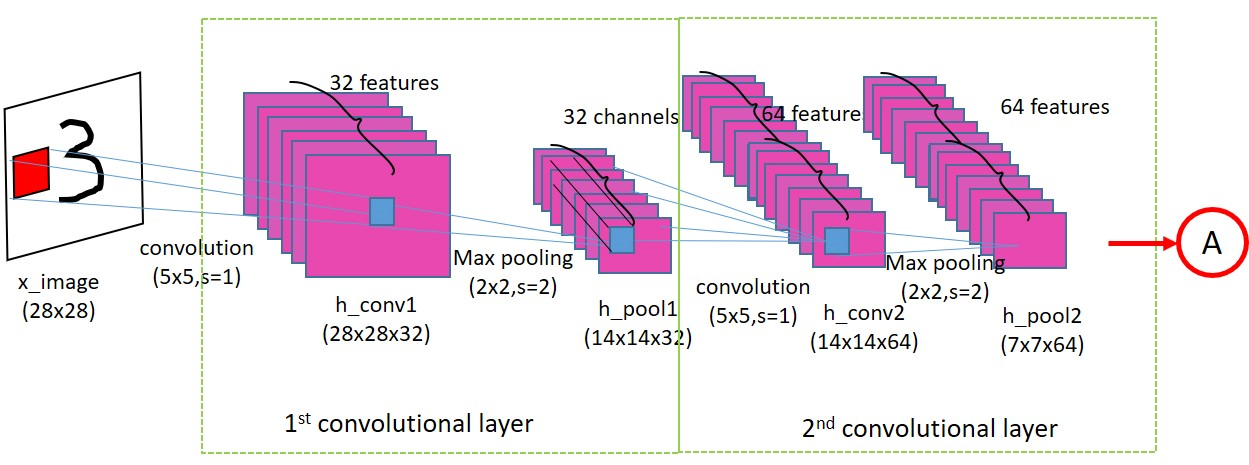
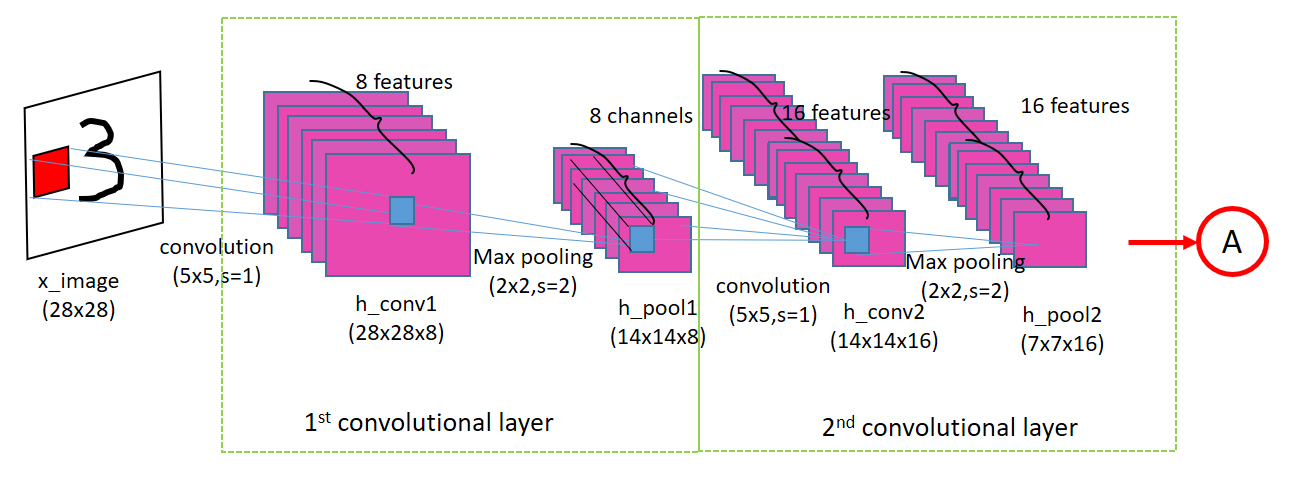
Corretto Capitoli 4 e 6 e aggiornate due immagini

diff --git a/report/Chapters/Chapter04.tex b/report/Chapters/Chapter04.tex
@@ -2,15 +2,17 @@
 \chapter{A basic model for handwritten digits recognition}\label{ch:basic_tf_model}
 %*****************************************
 
-In this chapter we will discover a basic TensorFlow model developed in order to classify images from the \acs{MNIST} dataset. Our scope is to illustrate the structure of the \acs{CNN} and how that basic model can be readjust as needed, gathering data about accuracy during training process and test accuracy on unknown images from the dataset.
+In this chapter we will discover a basic TensorFlow model developed in order to classify images from the \acs{MNIST} dataset. Our scope is to illustrate the structure of the \acs{CNN} and how that basic model can be readjusted as needed, gathering data about accuracy during the training process and test accuracy on unknown images from the dataset.
 
-After an introduction to the \acs{MNIST} dataset, we will study the structure of the Convolutional Neural Network used in our experiments in depth, trying to understand which parameters are relevant for the improvement of the results, and how the structure can influence more than any other factor the accuracy of the network during training.
+The full code of the project is available at the following link: \href{https://github.com/Stex93/MNIST_TF_Net}{https://github.com/Stex93/MNIST_TF_Net}.
 
-We identify two levels where we can act to modify the neural network. A architectural one, where we add, move and remove convolutional or pooling levels, and a parameter level, where we modify number of features, patch dimension, and so on. The first one is more important while designing the structure of the network, the second one is a more precise intervention useful for tuning.
+After an introduction to the \acs{MNIST} dataset, we will illustrate in depth the structure of the Convolutional Neural Network used in our experiments, trying to understand which parameters are relevant for the improvement of the results, and how the structure can influence more than any other factor the accuracy of the network during the training.
+
+It is possible to identify two levels where we can act to modify the neural network. An architectural one, where we add, move and remove convolutional or pooling layers, and a parameter level, where we modify number of detected features, filters dimensions, and so on. The first one is more important while designing the structure of the network, the second one is a more precise intervention useful for tuning.
 
 \section{A focus on the MNIST dataset}
 
-Before beginning, let us focus on \acs{MNIST} dataset, which is widely used in machine learning for training and testing. The acronym \acs{MNIST} stands for Mixed National Institute of Standards and Technology because this database, containing a large number of handwritten digits, is a re-mixing of a previous dataset (NIST dataset) and collects $60000$ images for training and $10000$ for testing. The images were taken half from the American Census Bureau employees and half from American high school students and includes labels telling which digit every image is.
+Before beginning, let us focus on the \acs{MNIST} dataset, which is widely used in machine learning for training and testing purposes. The acronym \acs{MNIST} stands for Mixed National Institute of Standards and Technology because this dataset, containing a large number of handwritten digits, is a re-mixing of a previous dataset (NIST dataset) and collects $60000$ images for training and $10000$ for testing. The images were taken half from the American Census Bureau employees and half from American high school students and includes labels telling which digit every image is.
 
 \begin{figure}
 	\centering
@@ -19,11 +21,11 @@ Before beginning, let us focus on \acs{MNIST} dataset, which is widely used in m
 	\label{fig:MNIST_images}
 \end{figure}
 
-Figure \ref{fig:MNIST_images} shows four examples of handwritten digit images from \acs{MNIST} dataset, in order we have 5, 0, 4, 1.
+Figure \ref{fig:MNIST_images} shows four examples of handwritten digit images from the \acs{MNIST} dataset, from left to right we have 5, 0, 4, 1.
 
 \subsection{Usage in the machine learning}
 
-As mentioned earlier, the \acs{MNIST} dataset is widely used for training and testing neural networks, because it is a reference dataset in machine learning. During the years, lots of models in neural networks research were trained and tested on this dataset. Sometimes exciting results led to stale that neural networks achieved "near-human performance", but the first attempts obtained quite poor results: a linear classifier had a error rate from $12.0 \%$ to $7.6 \%$, which is really not satisfying for such a simple task.
+As mentioned earlier, the \acs{MNIST} dataset is widely used for training and testing neural networks, because it is a reference dataset in machine learning. During the years, lots of models in neural networks research were trained and tested on this dataset. Sometimes exciting results led to state that neural networks achieved "near-human performance", but the first attempts obtained quite poor results: a linear classifier had a error rate from $12.0 \%$ to $7.6 \%$, which is really not satisfying for such a simple task.
 
 Other solutions led to better results. Non-linear classifiers drastically reduced error rate to $3.3 \%$, but more appreciable results were obtained with 2-layers ($784-800-10$) neural networks, with an error rate of: $1.6 \%$, $0.7 \%$ with elastic distortion. Boosted stumps achieved an error rate of $0.87 \%$, support vector machines $0.56 \%$, K-nearest neighbors $0.52 \%$ and 6-layers deep neural network $0.35 \%$.
 
@@ -35,7 +37,7 @@ The digits have been size-normalized and centered in a fixed-size image of $28x2
 
 The original NIST dataset contained black and white, bilevel images. As a result of an anti-aliasing technique used in the normalization algorithms, images are now in greyscale. Digits were centered by computing the center of mass of the pixels and properly translating them.
 
-Images are not in a standard image format, the data is stored in a very simple format designed for storing vectors and multidimensional matrices. Clearly labels values are from 0 to 9, while pixel values are from 0 to 255, 0 stands for white and can be found in the background, 255 is black and means foreground; pixels are organized row-wise. It is important to underline that in TensorFlow values 0 to 255 are normalized in the [0, 1] range.
+Images are not in a standard image format, data are stored in a very simple format designed for storing vectors and multidimensional matrices. Clearly labels values are from 0 to 9, while pixel values are from 0 to 255, 0 stands for white and can be found in the background, 255 is black and means foreground; pixels are organized row-wise. It is important to underline that in TensorFlow values from 0 to 255 are normalized in the [0, 1] range.
 
 \begin{figure}
 	\centering
@@ -44,39 +46,39 @@ Images are not in a standard image format, the data is stored in a very simple f
 	\label{fig:image_to_matrix}
 \end{figure}
 
-Figure \ref{fig:image_to_matrix} shows an example of images storing format: each image can be translated into a numeric matrix, pixel by pixel, encoding pixel colors (white, black and grey levels) in the [0, 255] range.
+Figure \ref{fig:image_to_matrix} shows an example of image storing format: each image can be translated into a numeric matrix, pixel by pixel, encoding pixel colors (white, black and grey levels) with a number in the [0, 255] range.
 
 More detailed informations about data format are not useful to read and compute the files in the dataset, but can be found on the \href{http://yann.lecun.com/exdb/mnist/}{dataset website}.
 
 \section{Choosing the hyperparameters}
 
-Now, let's focus on the simple model developed in tensorflow, starting from the hyperparameters choice.
+Now, let's focus on the simple model developed in TensorFlow, starting from the hyperparameters choice.
 
 Tuning the hyperparameters of the network is very delicate, it is a precision intervention which hopefully allows to improve both training and performances, but can also reduce them in the worst case. We will consider the following parameters: number of features to identify in every convolutional layer, filter size, stride size, number of input and output channels and padding of images.
 
 \begin{description}
 	
-	\item[Number of features] This is one of the most important parameters to set, because here is specified how many features the network will try to identify. There is not a formula which allows us to find the perfect number of features based on the complexity of a task, but after several attempts with different values for this parameter we found a good solution for \acs{MNIST} images. It can be concluded that a simple task, e.g. classifying $28x28$ grey scale images of digits, requires a small amount of filters to be learn (and consequently features to be identified): 8 in first convolutional layer, 16 in the second one. When we will analyze the results of the experiments, in Chapter \ref{ch:data_analysis}, with different values for this parameters, we will find that very good performances can be obtained with 2 and 4 features, too. More difficult task with bigger and higher quality images, would probably require tens or hundreds features. An opposite problem is a too high value, the result is that some filters became the same or very similar, so it could cause an increase in the complexity of the model without any benefit.
+	\item[Number of features] This is one of the most important parameters to set, because here is specified how many features the network will try to extract from every image. There is not a formula which allows to find the perfect number of features based on the complexity of a task, but after several attempts with different values for this parameter we found a good solution for the \acs{MNIST} images. It can be concluded that a simple task, \eg classifying $28x28$ greyscale images of digits, requires a quite small amount of filters to be learnt (and consequently features to be identified): 8 in the first convolutional layer, 16 in the second one. When we will analyze the results of the experiments, in chapter \ref{ch:data_analysis}, with different values for this parameters, we will find that very good performances can be obtained with 2 and 4 features, too. More difficult tasks with bigger and higher quality images, would probably require dozens or hundreds of features. An opposite problem is a too high value, the result would be that some filters become the same or very similar, and this could cause an increase in the complexity of the model without any benefit.
 
-	\item[Patch size] The patch size allows us to adjust the size of the receptive field. Contrary to expectations, this parameter will not change from a convolutional and pooling layer to the next one, because while it is a fixed value, the image dimension is reduced, so the patch cover a greater area and allows the recognition of features, even more complex, in a bigger patch.  In our example with $28x28$ images a good patch size value is $5x5$. Obviously a bigger image would require an appropriately sized patch.
+	\item[Patch size] The patch size for the filters allows to adjust the size of the receptive field. Contrary to expectations, this parameter does not change from a convolutional and pooling layer to the next one. Actually, while this is a fixed value, the image dimension is reduced by pooling layers, so in deeper layers the patch covers a greater area and allows the recognition of features, even more complex, in a bigger part of the image.  In our example with $28x28$ images a good patch size is $5x5$. Obviously a bigger image would require an appropriately sized patch.
 	
-	\item[Stride size] According to the vanilla version proposed in the example, our stride value is 1. This value is combined with the padding in convolution and pooling in order to obtain an output of the same size of the input.
+	\item[Stride size] According to the vanilla version proposed in the \acs{TF}, our stride value is 1. This value is combined with the padding size in convolution and pooling in order to obtain an output of the same size of the input.
 	
-	\item[Input and output channels] These parameters can vary from a convolutional layer to another. In the first layer the input channel is linked to the colors of the input images, so in our example we have the value 1; the number of output channel depends on the number of features recognized in the layer. In deeper layers the input channel must correspond to the output channel of the previous layer, and the output channel to the features recognized in the layer.
+	\item[Input and output channels] These parameters can vary from a convolutional layer to another. In the first layer the input channel is linked to the colors of the input images, so in our example we have the value 1; the number of output channels depends on the number of features recognized in the layer. In deeper layers the input channel must correspond to the output channel of the previous layer, and the output channel to the features recognized in the layer.
 	
-	\item[Padding dimension and color] As described previously with the formula, we determined the zero padding dimension. It is very important because with the stride size value permit to keep stable dimensions of input and output layer after layer. It is important to notice that the color of the padding, i.e. white, corresponds to the color of the background of the \acs{MNIST} images. It is a fluke, but what would happen if the padding color changed to black?
+	\item[Padding dimension and color] As described previously with the formula, we determined the zero padding dimension. It is very important because with the stride size value permit to keep stable dimensions of input and output layer after layer. It is important to notice that the color of the padding, \ie white, corresponds to the color of the background of the \acs{MNIST} images. It is a fluke, but what would it happen if the padding color were changed to black (\ie 1)?
 
 \end{description}
 
 \section{The architectural level}
 
-We introduced in Chapter \ref{ch:conv_nets} the different types of layers useful to build a \acs{CNN}, now we can analyze how they are combined in our TensorFlow model. This architecture was not modified, so it is exactly the one suggested in the TensorFlow example.
+We introduced in chapter \ref{ch:conv_nets} the different types of layers useful to build a \acs{CNN}, now we can analyze how they are combined in our TensorFlow model. This architecture was not modified, so it is exactly the one suggested in the TensorFlow tutorial.
 
 After the \acs{MNIST} images are loaded, the TensorFlow session created and the variables initialized, we can start building the multilayer \acs{CNN}.
 
 \subsection{Weights initialization}
 
-First of all we need to define a matrix of weights, its dimensions depend on the parameter shape. At first weights are random values from a truncated normal distribution, the following lines of code shows their initialization.
+First of all we need to define a matrix of weights, its dimensions depend on the parameter shape. At first weights are random values from a truncated normal distribution, the following lines of code shows the function used for their initialization.
 
 \begin{lstlisting}
 def weight_variable(shape):
@@ -84,9 +86,9 @@ def weight_variable(shape):
   return tf.Variable(initial)
 \end{lstlisting}
 
-The parameter we passes to the function, shape, is a list containing the values of the different dimensions of the tensor.
+The parameter we passed to the function, shape, is a list containing the values of the different dimensions of the tensor.
 
-We report also the bias initialization method in the following lines of code.
+We report also the bias initialization function in the following lines of code.
 
 \begin{lstlisting}
 def bias_variable(shape):
@@ -96,9 +98,9 @@ def bias_variable(shape):
 
 \subsection{First convolutional layer}
 
-The following lines of code introduce the first block: a convolutional layer followed by a ReLU layer and a pooling layer. In the first two lines there are the weights and biases initializations; weights are random values from a truncated normal distribution, bias is a constant tensor. Then on the third line there are the convolution and the \acs{ReLU} operation, followed on the fourth line by the max pooling operation.
+The following lines of code introduce the first block: a convolutional layer followed by a \acs{ReLU} layer and a pooling layer. In the first two lines there are the weights and biases initializations; weights are random values from a truncated normal distribution, the bias is a constant vector. Then, on the third line there are the convolution and the \acs{ReLU} operation, followed on the fourth line by the max pooling operation.
 
-That kind of structure in the block we described is not the only solution, the different layers can be combined in different ways, e.g. we can add in this block a second convolutional layer instead of one before ReLU and max pooling.
+That kind of structure in the block we described is not the only solution, different layers can be combined in different ways, \eg we can add in this block an additional second convolutional layer before ReLU and max pooling.
 
 \begin{lstlisting}
 W_conv1 = weight_variable([5, 5, 1, features1])
@@ -107,20 +109,20 @@ h_conv1 = tf.nn.relu(conv2d(x_image, W_conv1) + b_conv1)
 h_pool1 = max_pool_2x2(h_conv1)
 \end{lstlisting}
 
-We can spend some words about the parameters of the function "weight\_variable": the two $5$ are the filter dimensions, while feature1 is the number of filters which corresponds to the number of feature the network will identify.
+We can spend some words about the parameters of the function \lstinline|weight\_variable|: the two $5$ are the filter dimensions, while \lstinline|feature1| is the number of filters which corresponds to the number of features the network will identify in this layer.
 
-Figure \ref{fig:conv_layer} will help the reader to properly visualize the structure of this layer, from the patches on the image which we can see in the figure, connected to the feature maps in convolutional layer, to the feature maps connected to the max pooling layer.
+Figure \ref{fig:conv_layer} could help the reader to properly visualize the structure of this layer, starting from the connections between the image input and the neurons of the convolutional layer, and going deeper.
 
 \begin{figure}
-	\caption{A detailed schema of a convolutional and pooling layer with detailed notations}
-	\label{fig:conv_layer}
 	\centering
 	\includegraphics[width=1\textwidth]{Images/conv_layer}
+	\caption{A detailed schema of a convolutional and pooling layer}
+	\label{fig:conv_layer}
 \end{figure}
 
 \subsection{Second convolutional layer}
 
-Similarly to the previous subsection we can add a second block which has exactly the same structure of the first one: a convolutional layer with ReLU and pooling operations. The following code is equal to the previous, it does the same operations.
+Similarly to the previous subsection we can add a second block which has exactly the same structure of the first one: a convolutional layer with \acs{ReLU} and pooling operations. The following code is equal to the previous, it does the same operations.
 
 \begin{lstlisting}
 W_conv2 = weight_variable([5, 5, features1, features2])
@@ -129,30 +131,30 @@ h_conv2 = tf.nn.relu(conv2d(h_pool1, W_conv2) + b_conv2)
 h_pool2 = max_pool_2x2(h_conv2)
 \end{lstlisting}
 
-The only difference between the two blocks we newly added is in the hyperparameters, in particular the number of features the network recognizes analyzing the images in input.
+The only difference between the two blocks is in the hyperparameters, in particular the number of features the network recognizes analyzing the images in input.
 
-Any changes are possible: not only a single convolutional level can be added, but a whole block like the two we described right now. A more structured \acs{CNN} can be built with more complex task.
+Any changes are possible: not only a single convolutional level can be added, but a whole block like the two we described right now. A more structured \acs{CNN} can be built for more complex tasks.
 
-Even if we have so far tried to be clear and comprehensive describing this first part of the architecture in our basic model, we know it can be difficult to figure out the structure of all these levels. In order to help the reader, we provide in Figure \ref{fig:conv_layers} a visual description of the first two architectural blocks.
+Even if we have so far tried to be clear and comprehensive describing this first part of the architecture in our basic model, we know it can be difficult to figure out the structure of all these levels. In order to help the reader, we provide in figure \ref{fig:conv_layers} a visual description of the first two architectural blocks.
 
 \begin{figure}
-	\caption{A schema of the two convolutional and pooling layers with detailed notations}
-	\label{fig:conv_layers}
 	\centering
 	\includegraphics[width=1\textwidth]{Images/conv_layers}
+	\caption{A schema of the two convolutional and pooling layers with detailed notations}
+	\label{fig:conv_layers}
 \end{figure}
 
 \subsection{Digression on the convolution and pooling functions}
 
-We introduced two convolutional layers, but we only saw the call of mask functions, both for convolution and pooling. Now we can focus a little bit on these parts in the code, so below we will find the respective functions.
+We introduced two convolutional layers, but we only saw the call of two mask functions, both for convolution and pooling. Now we can focus a little bit on these parts of code, so below we report the code of the two functions.
 
-The first, as can suggest its name conv2d, is the function which performs the convolution operation. Its parameters are:
+The first, as can  be suggested its name \lstinline|conv2d|, is the function which performs the convolution operation. Its parameters are:
 
 \begin{itemize}
-	\item x, the 4d tensor, i.e. the images;
-	\item W, The weights matrix;
-	\item strides, as previously explained is 1;
-	\item padding='SAME', output will have the same dimension of the input.
+	\item \lstinline|x|, the 4D tensor, in our case the images;
+	\item \lstinline|W|, the weights matrix;
+	\item \lstinline|strides|, as previously explained it is 1;
+	\item \lstinline|padding='SAME'|, meaning that output must have the same dimension of the input.
 \end{itemize}
 
 \begin{lstlisting}
@@ -160,18 +162,21 @@ def conv2d(x, W):
 	return tf.nn.conv2d(x, W, strides=[1, 1, 1, 1], padding='SAME')
 \end{lstlisting}
 
-Similarly, in pooling function, max pooling exactly, we have again x, strides and padding, which we already explained.
+Similarly, in the pooling function, max pooling exactly, we have again \lstinline|x|, \lstinline|strides| and \lstinline|padding|, which we already explained.
 
 \begin{lstlisting}
 def max_pool_2x2(x):
 	return tf.nn.max_pool(x, ksize=[1, 2, 2, 1], strides=[1, 2, 2, 1], padding='SAME')
 \end{lstlisting}
 
+The two functions call the the corresponding functions implemented in \acs{TF} for tensors.
+
 \subsection{Densely connected layer}
 
 The densely connected layer is the core of the classification process in our \acs{CNN}, it is implemented as matrix multiplication added to a bias offset. With that layer it is also possible to learn combinations of features.
 
-We call the function weight\_variable to initialize the weights, the shape we define in the parameter is of dimension $7*7$ because we started from a $28x28$ image, in the first convolutional layer the max pooling reduced the dimensions to $14x14$, and similarly the second layer reduced it to $7x7$. And it is multiplied by the number of features identified in the second convolutional layer.
+We call the function \lstinline|weight\_variable| to initialize the weights, the shape we define in the parameter is of dimension $7*7$ because we started from a $28x28$ image, in the first layer the max pooling reduced the dimensions to $14x14$, and similarly the second layer reduced it to $7x7$. And it is multiplied by the number of features identified in the second convolutional layer.
+Again, the \acs{ReLU} operation is applied to the result.
 
 \begin{lstlisting}
 W_fc1 = weight_variable([7 * 7 * features2, 1024])
@@ -182,27 +187,27 @@ h_fc1 = tf.nn.relu(tf.matmul(h_pool2_flat, W_fc1) + b_fc1)
 
 \subsection{Dropout layer}
 
-In order to reduce overfitting we introduced a dropout layer, which is very important to better perform with new examples. The implementation of that operations is really simple: a random set of activations is set to zero, then the pruned nodes are reinitialized and reinserted into the network. The dropout layer is used only at training time, and not during testing.
+In order to reduce overfitting we introduced a dropout layer, which is very important to reach good performances with new examples. The implementation is really simple: a random set of activations is set to zero, then the pruned nodes are reinitialized and reinserted into the network. The dropout layer is used only at training time, and not during the testing.
 
-In the following two lines of code we find the variable keep\_prob. This value specifies the probability that a node will be pruned or not.
+In the following two lines of code we find the variable \lstinline|keep\_prob|. This value specifies the probability that a node will be pruned or not.
 
 \begin{lstlisting}
 keep_prob = tf.placeholder(tf.float32)
 h_fc1_drop = tf.nn.dropout(h_fc1, keep_prob)
 \end{lstlisting}
 
-As previously done, we provide another image, Figure \ref{fig:other_layers}, to help the reader figuring out the addiction of these new layers in the model architecture.
+As previously done, we provide another image, figure \ref{fig:other_layers}, to help the reader figuring out the addiction of these new layers in the model architecture.
 
 \begin{figure}
-	\caption{A schema of the densely connected layer and dropout layer with detailed notations}
-	\label{fig:other_layers}
 	\centering
 	\includegraphics[width=1\textwidth]{Images/other_layers}
+	\caption{A schema of the densely connected layer and dropout layer with detailed notations}
+	\label{fig:other_layers}
 \end{figure}
 
 \subsection{Loss (readout) layer}
 
-The loss layer is the last one but also the core of regression model in our \acs{CNN}, here we find the implementation of regression model with the loss function: a multiplication of vectorized input images by the weight matrix, added to bias.
+The loss layer is the last one but also the core of regression model in our \acs{CNN}, here we find the implementation of the regression model with the related activation function: it is a softmax regression. The output is, then, a vector of probabilities, each one corresponding to a given class.
 
 \begin{lstlisting}
 W_fc2 = weight_variable([1024, 10])
@@ -214,11 +219,9 @@ y_conv = tf.nn.softmax(tf.matmul(h_fc1_drop, W_fc2) + b_fc2)
 
 \subsection{Training}
 
-We have built our \acs{CNN} layer by layer, convolution by convolution and finally we defined the loss function. Our loss function is the cross entropy between the target and the softmax activation function applied to the model's prediction.
+We have built our \acs{CNN} layer by layer, convolution by convolution, defining the whole architecture. Now it is time to train that model and test its capabilities. Our loss function is the cross entropy between the target and the softmax activation function applied to the model's prediction.
 
-Now it is time to train that model and test its capabilities.
-
-Train with TensorFlow allows to use automatic differentiation to find the gradient of the loss with respect to each of the variables. In the wide range of built-in optimization algorithms offered by TensorFlow we chose the Adam optimizer (Adaptive Moment optimizer) specifying in the parameter the learning rate. The optimizer adds new operations, which include ones to compute gradients, compute parameter update steps, and applied update steps to the parameters.
+TensorFlow allows to use automatic differentiation to find the gradient of the loss with respect to each of the variables. In the wide range of built-in optimization algorithms offered by \acs{TF} we chose the Adam optimizer (Adaptive Moment optimizer) specifying in the parameter the learning rate. The optimizer adds new operations, which include one to compute gradients, compute  the parameter update steps, and apply  the update step to the parameters.
 
 \begin{lstlisting}
 cross_entropy = tf.reduce_mean(-tf.reduce_sum(y_ * tf.log(y_conv), reduction_indices=[1]))
@@ -227,31 +230,35 @@ correct_prediction = tf.equal(tf.argmax(y_conv, 1), tf.argmax(y_, 1))
 accuracy = tf.reduce_mean(tf.cast(correct_prediction, tf.float32))
 \end{lstlisting}
 
-Training the model can be therefore be accomplished repeatedly running the train\_step for a number of epochs.
+Training the model can be therefore accomplished by repeatedly running the \lstinline|train\_step| for a given number of iterations.
+
+For each iteration not all the images in the \acs{MNIST} dataset are proposed to the model. More precisely, at each step of the loop, we get a "batch" of $50$ random data points from our training set. We run \lstinline|train_step| feeding in the batches data to replace the placeholders.
+
+Using small batches of random data is called stochastic training. Ideally, we'd like to use all our data for every step of training because that would give us a better sense of what we should be doing, but that's expensive. So, instead, we use a different random subset every time. Doing this is cheap and has much of the same benefit.
 
 \subsection{Testing and evaluating}
 
-After a long training session, we want to evaluate performances of our network. It is possible with the following lines of code, where a percentage value of the accuracy is calculated.
+After a long training session, we want to evaluate the performances of the network. It is possible with the following lines of code, where a percentage value of accuracy is calculated.
 
 \begin{lstlisting}
 test_accuracy = accuracy.eval(feed_dict={x: mnist.test.images, y_: mnist.test.labels, keep_prob: 1.0})
 \end{lstlisting}
 
-Similarly we can evaluate the learning trend during the training epochs. It is one of the most important measurement we made during all the experiments we did with different parametrized \acs{CNN}.
+Similarly we can evaluate the learning trend during the training process. It is one of the most important measurement we made during all the experiments we did with different parametrized \acsp{CNN}.
 
 \section{Modifications of the architecture}
 
-Previously we talked about architectural interventions, classifying them as more structural modifications. We reinvented the wheel during the first tests, where we tried to change something in the layers structure adding convolutional levels. Disastrous results led us to the conclusions that in case of quite simple task, like digits classification, adding an excessive amount of layers ends up in unsatisfactory results. More precisely, adding only one layer to the structure we described above, the training curve did not converge. 
+We talked previously about architectural interventions, classifying them as more structural modifications. We reinvented the wheel during the first tests, where we tried to change something in the layers structure adding some convolutional levels. Disastrous results led us to the conclusions that in case of quite simple tasks, like digits classification, adding an excessive amount of layers ends up in unsatisfactory results. More precisely, by adding just one layer to the structure we described above, the training phase did not converge. 
 
-Just like the number of features should be assessed on the basis of task complexity, also the structure must be proportionate to it much more than hyperparameters.
+Just like the number of features should be assessed on the basis of the task complexity, also the structure must be proportionate to it, much more than hyperparameters.
 
-Certainly tasks like facial recognition or high-defined images classification requires more complex structures, with more convolutional levels and much many features to be detected.
+Certainly, tasks like facial recognition or high-definiton images classification would require more complex structures, with more convolutional levels and many more features to be detected.
 
 \section{GUI for real time testing}
 
-In order to have new experiences with our \acs{CNN} a simple \acs{GUI} was implemented. It allows us to test our trained network with real data not coming from \acs{MNIST} dataset.
+In order to have new experiences with our \acs{CNN} a simple \acs{GUI} was implemented. It allows to test the trained network with real data not coming from \acs{MNIST} dataset.
 
-The \acs{GUI} uses a pre-trained network which detects $16$ and $32$ features in first and second convolutional layer. Users can draw digits with the mouse in a small box. The input is then processed in order to make it similar to images from the \acs{MNIST} dataset. In particular the digit is rescaled in order to fit a $28x28$ pixel grid. Color values are normalized from $0$ to $255$ range to $0$ to $1$. $1$ represents a black pixel, while $0$ a white one.
+The \acs{GUI} uses a pre-trained network which detects $16$ and $32$ features in first and second convolutional layers. Users can draw digits with the mouse in a small box. The input is then processed in order to make it similar to images from the \acs{MNIST} dataset. In particular the digit is rescaled in order to fit a $28x28$ pixel grid. Color values are normalized from the $0$ to $255$ range to $0$ to $1$. $1$ represents a black pixel, while $0$ a white one.
 
 The processed image is then mapped to a $28x28$ numeric matrix which is the input for the neural network. The digit corresponding to the input matrix is finally shown to the user. Figures \ref{fig:GUI_5} and \ref{fig:GUI_8} show two examples of digit recognition using the \acs{GUI}, in the first one the model recognize and correctly classify a $5$, in the second a $8$.
 
@@ -269,8 +276,8 @@ The processed image is then mapped to a $28x28$ numeric matrix which is the inpu
 \includegraphics[width=0.8\textwidth]{Images/GUI_8}
 \end{figure}
 
-\section{Save and restore a TensorFlow model}
+\section{Saving and restoring the model}
 
-As we hint in Chapter \ref{ch:tensorflow_basics} at the end of the section about the variables, there is the possibility of save and restore the trained network, all the variables or only in part.
+As we suggested in chapter \ref{ch:tensorflow_basics} at the end of the section about variables, there is the possibility of saving and restoring the trained network, all the variables or only part of them.
 
-We used this functionality to train a network with $8$ features in the first convolutional layer and $16$ on the second, then reloading the saved variables we used the model to recognize handwritten digits with the GUI referred to in the previous section.
+We used this functionality to train a network with $8$ features in the first convolutional layer and $16$ on the second, then reloading the saved variables we used the model to recognize handwritten digits with the \acg{GUI} presented in the previous section.

diff --git a/report/Chapters/Chapter06.tex b/report/Chapters/Chapter06.tex
@@ -2,9 +2,9 @@
 \chapter{Conclusions and future work}\label{ch:conclusions}
 %*****************************************
 
-Research in machine learning area attempts to make better representations, more performing, possibly limiting computational costs in terms of time and space. Some remarkable results were obtained with a new kind of \acsp{DNN}: Convolutional Neural Networks (\acsp{CNN}). Thus we analyzed a \acs{CNN} model built with TensorFlow framework, an open source distribution by Google.
+Research in machine learning attempts to make better representations, more performing, possibly limiting computational costs in terms of time and space. Some remarkable results were obtained with a new kind of \acs{DNN}: Convolutional Neural Networks (\acsp{CNN}). Thus we analyzed a \acs{CNN} model built with the TensorFlow framework, an open source distribution by Google.
 
-TensoFlow was chosen for its flexible architecture, which allows to deploy the computation to one or more \acsp{CPU} or \acsp{GPU} in a desktop, server, or mobile device with a single API.
+TensorFlow was chosen because of its flexible architecture, which allows to deploy the computation to one or more \acsp{CPU} or \acsp{GPU} in a desktop, server, or mobile device with a single API.
 
 \begin{description}
 	\item[Chapter \ref{ch:conv_nets}] introduced the main features and building blocks of convolutional neural netowrks architecture, with special regard to the parameters which have been taken into account when designing one of them.
@@ -18,30 +18,30 @@ TensoFlow was chosen for its flexible architecture, which allows to deploy the c
 
 Finally we can draw the conclusions of the work done in this project: \acsp{CNN} are a more powerful kind of Deep Neural Network, because they allow to obtain better results on more complex tasks, with not exorbitant training computational costs. The reducing of computational costs and memory space is obtained with fewer weights, i.e. fewer connections between neurons, which are also more performing than fully connected neural networks.
 
-With the Convolutional Neural Network model built and the achieved results, we can conclude that the performances are very satisfactory, against computational costs and execution times quite content.
+With the Convolutional Neural Network model built and the achieved results, we can conclude that the performances are very satisfactory, with limited computational costs and execution times.
 
-However our work is not on a siding, there could be a lot of possible questions to answer continuing this project. Here are some of them.
+However our work is not on a siding, there could be a lot questions still to answer continuing this project. Here are some of them.
 
 About the padding:
 \begin{itemize}
-	\item could the padding be changed?
-	\item what could happen with different dimensions and colors of the padding?
-	\item how much the padding affect the results and the performances of \acsp{CNN}?
-	\item can we do without the padding?
-	\item there could be other solutions to avoid the usage of padding?
-	\item in more complex images with non uniform background color, is 0 padding a good solution? 
+	\item Could the padding type be changed?
+	\item What could it happen with different dimensions and colors of the padding?
+	\item How much the padding affects the results and the performances of a \acsp{CNN}?
+	\item Can we do without the padding?
+	\item Could there be other solutions to avoid the usage of padding?
+	\item In more complex images with non uniform background color, is 0 padding a good solution? 
 \end{itemize}
 
 About the tuning of hyperparameters, in particular the number of filters, which reflects in the number of features the network identify:
 \begin{itemize}
-	\item could be formalized a procedure to precisely determine the number of this hyperparameter?
-	\item which could be a good trade off between training times and final accuracy according to necessities?
+	\item Could be formalized a procedure to precisely determine the number of filters to learn?
+	\item Which could be a good trade off between training times and final accuracy according to necessities?
 \end{itemize}
 
 Last but not least, transfer learning:
 \begin{itemize}
-	\item could be possible use the same trained network retraining the fully connected layer for new tasks?
-	\item an example could be our Convolutional Neural Network which recognize only the digits. Could we train another network on alphabet letters and then transfer its learning to our model?
+	\item Could it be possible to use the same trained network retraining the fully connected layer for new tasks?
+	\item An example could be our convolutional ceural cetwork which recognizes only the digits. Could we train another network on letters and then transfer its learning to our model?
 \end{itemize}
 
 Our analysis turned out to be very interesting, but possible future projects could be even more interesting and useful in machine learning and Deep Neural Network research.
